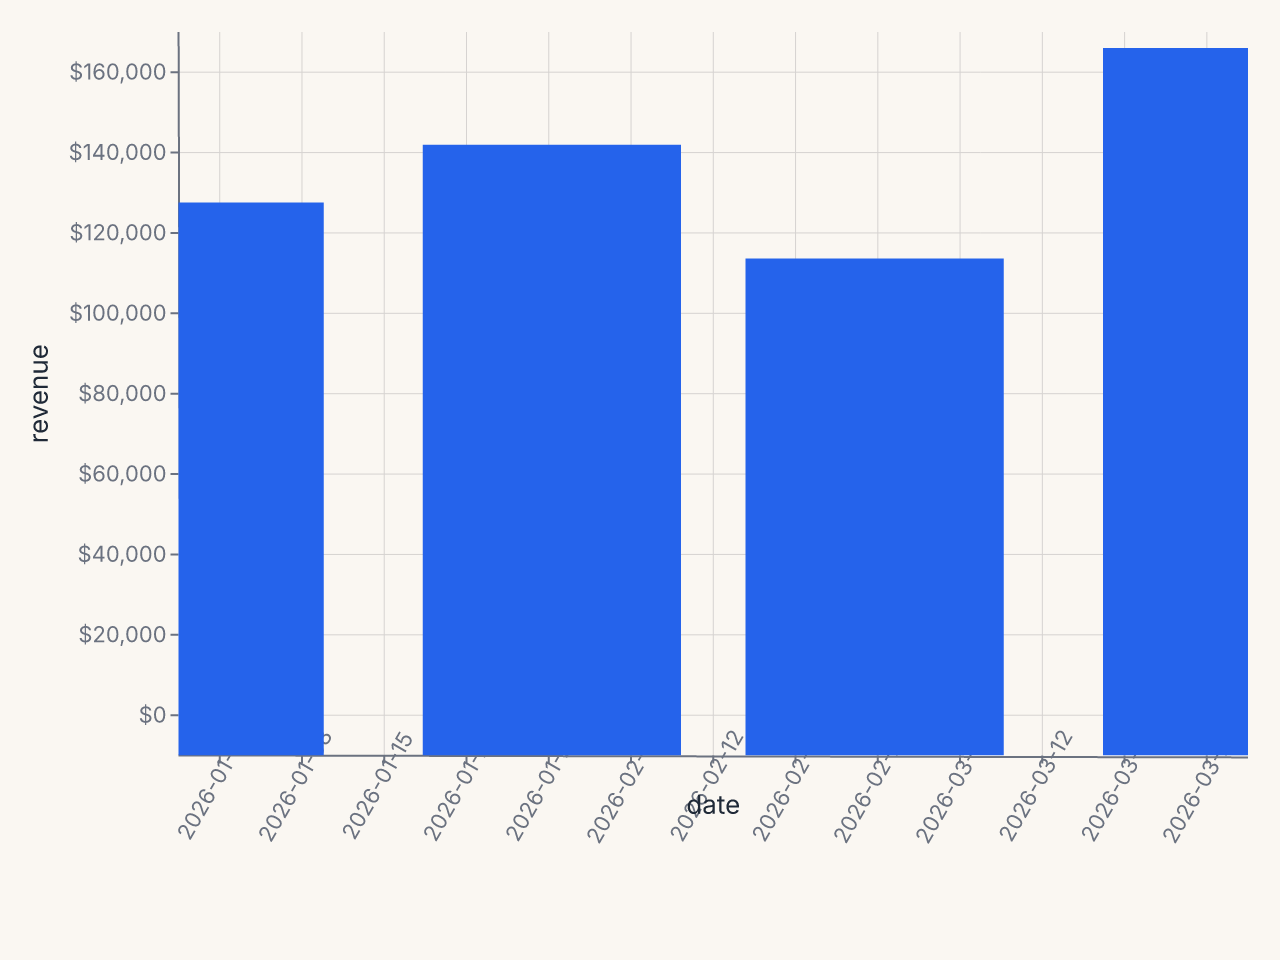
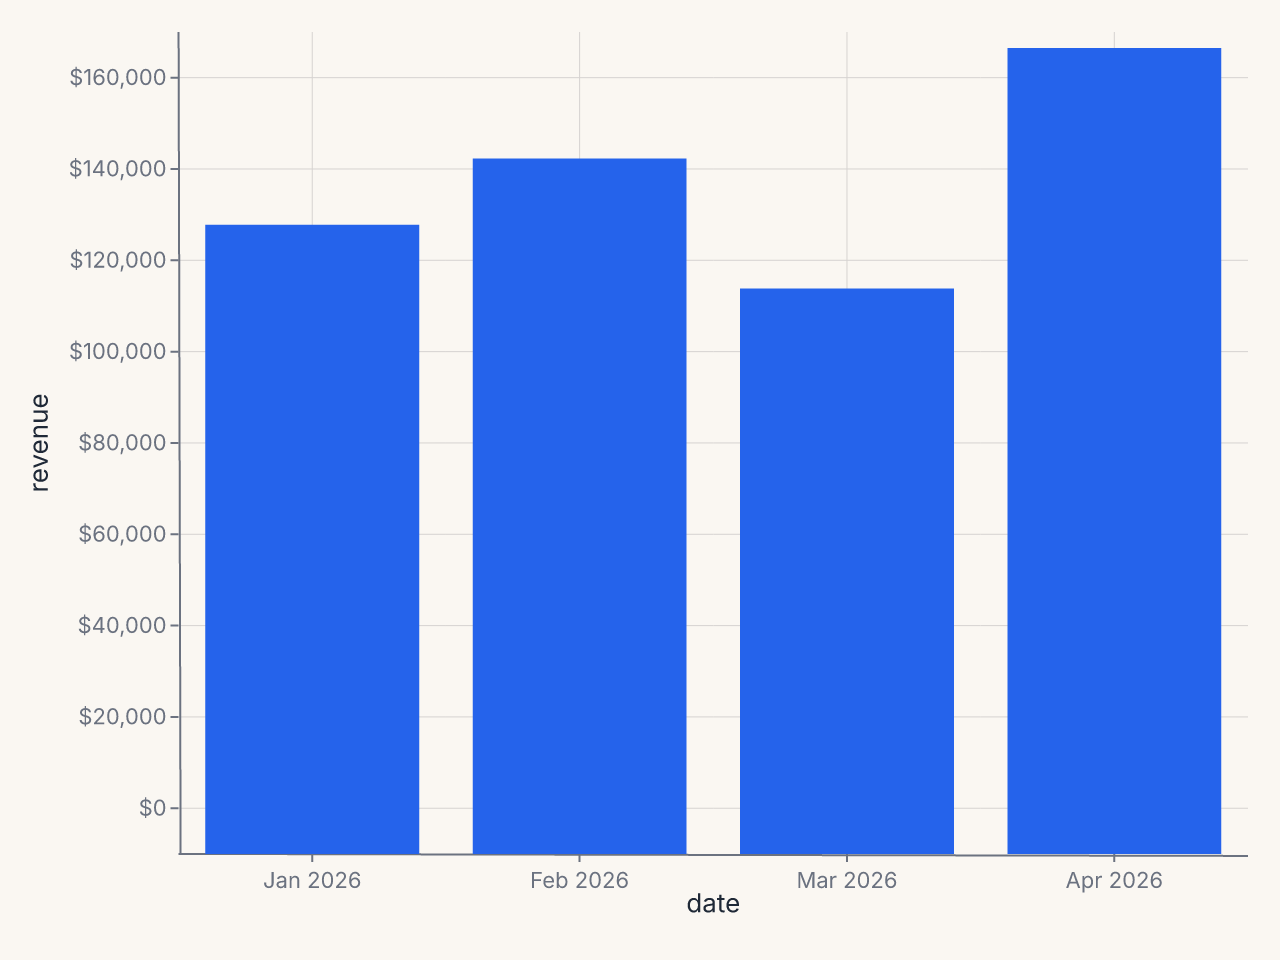
fix: format-presets revenue chart uses nominal encoding for monthly bars
Temporal encoding (date:T) on a bar chart with 4 monthly dates produced
half-width edge bars and cluttered tick labels. Switched to nominal
strings ("Jan 2026", etc.) with date:N for equal-width categorical bars.

Changed region(s): [[0.0, 0.0312, 1.0, 0.9375], [0.0312, 0.0625, 0.1562, 0.0938], [0.5312, 0.9375, 0.5938, 0.9688]]

diff --git a/scripts/gen_concept_pngs.py b/scripts/gen_concept_pngs.py
@@ -111,16 +111,15 @@ def gen_format_presets_revenue():
     """
     df = pl.DataFrame(
         {
-            "date": ["2026-01-01", "2026-02-01", "2026-03-01", "2026-04-01"],
+            "date": ["Jan 2026", "Feb 2026", "Mar 2026", "Apr 2026"],
             "revenue": [125000, 138500, 112000, 161000],
         }
-    ).with_columns(pl.col("date").str.to_date())
+    )
     chart = (
         fm.Chart(df)
         .mark_bar()
-        .encode(x="date:T", y="revenue:Q")
+        .encode(x="date:N", y="revenue:Q")
         .configure(
-            axis_x=fm.AxisConfig(label_format="month_year"),
             axis_y=fm.AxisConfig(label_format="currency"),
         )
     )

diff --git a/docs/site/guide/concepts/format-presets.md b/docs/site/guide/concepts/format-presets.md
@@ -150,16 +150,15 @@ import ferrum as fm
 import polars as pl
 
 df = pl.DataFrame({
-    "date": ["2026-01-01", "2026-02-01", "2026-03-01", "2026-04-01"],
+    "date": ["Jan 2026", "Feb 2026", "Mar 2026", "Apr 2026"],
     "revenue": [125000, 138500, 112000, 161000],
-}).with_columns(pl.col("date").str.to_date())
+})
 
 chart = (
     fm.Chart(df)
     .mark_bar()
-    .encode(x="date:T", y="revenue:Q")
+    .encode(x="date:N", y="revenue:Q")
     .configure(
-        axis_x=fm.AxisConfig(label_format="month_year"),
         axis_y=fm.AxisConfig(label_format="currency"),
     )
 )
